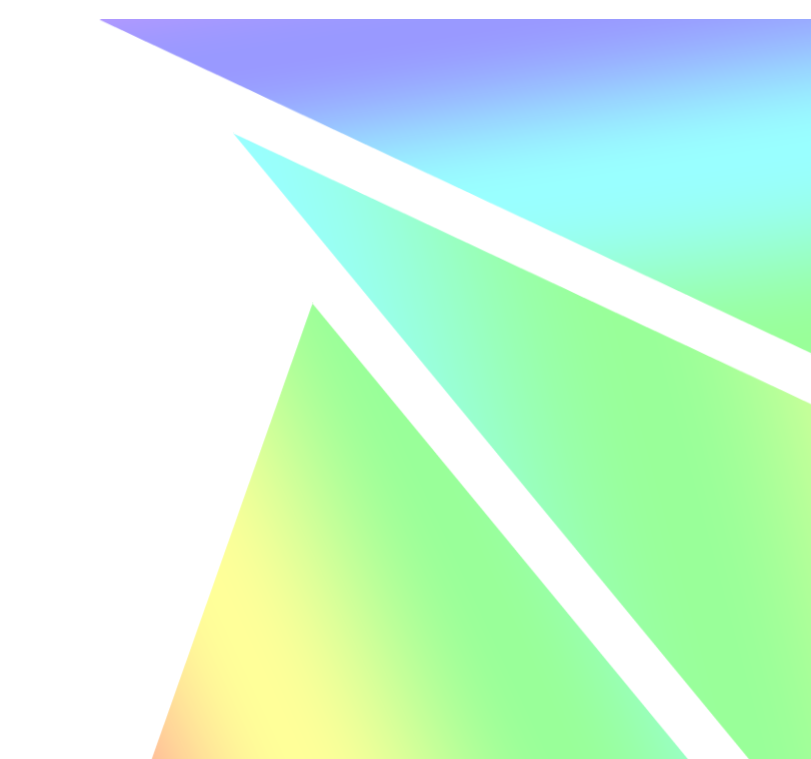
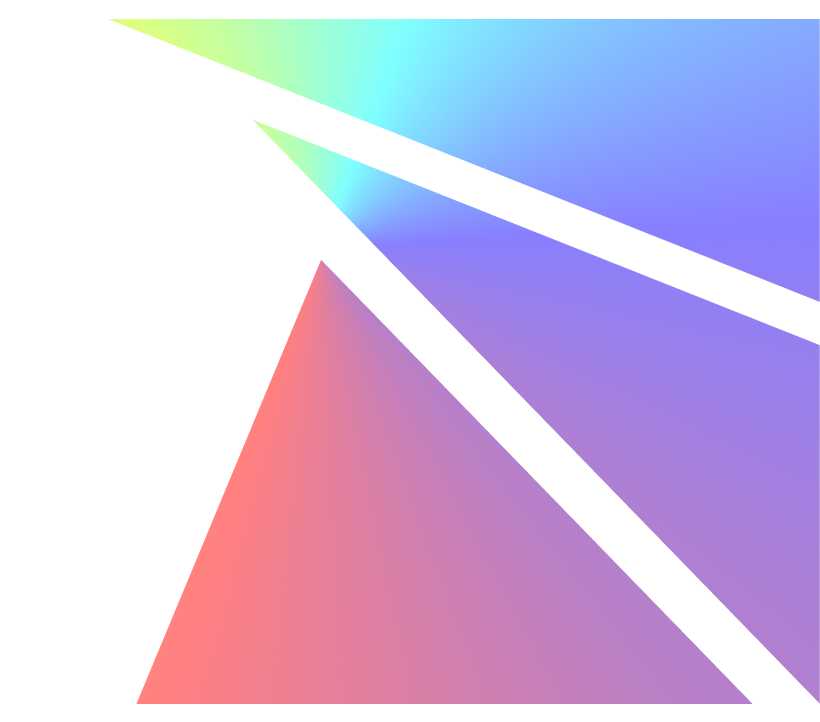
New Warning Page
Added the new "under construction" page, as well as updated images and some minor tweaks

diff --git a/index.html b/index.html
@@ -4,47 +4,21 @@
     <meta charset="UTF-8">
     <meta name="viewport" content="width=device-width, initial-scale=1.0">
     <meta name="author" content="Carson Ford">
-    <meta name="date" content="2025-05-14">
+    <meta name="date" content="2025-05-23">
     <meta name="last revised" content="2025-05-23">
     <meta name="keywords" content="Carson Ford, UI/UX, UI/UX artist, Carson Ford portfolio">
     <link rel="stylesheet" href="css/defaultstyle.css">
-    <link rel="preconnect" href="https://fonts.googleapis.com">
-    <link rel="preconnect" href="https://fonts.gstatic.com" crossorigin>
-    <link href="https://fonts.googleapis.com/css2?family=DM+Sans:ital,opsz,wght@0,9..40,100..1000;1,9..40,100..1000&display=swap" rel="stylesheet">
     <link href="https://fonts.googleapis.com/css2?family=DM+Sans:ital,opsz,wght@0,9..40,100..1000;1,9..40,100..1000&family=Neuton:ital,wght@0,200;0,300;0,400;0,700;0,800;1,400&display=swap" rel="stylesheet">
 
     <title>Carson Ford - Video Game UI Designer and Programmer</title>
     
 </head>
 <body>
-    <nav class="top-bar"> <!-- This is the code for the top menu bar -->
-        <div class="top-bar-logo"><img src="images/cf_logo.png"></div>
-        <div><a class="top-bar-text" href="index.html">Home</a></div>
-        <div><a id="portfolio-button" class="top-bar-text" href="https://carsonford1.artstation.com/">Portfolio</a></div>
-        <div><a class="top-bar-text" href="construction.html">About</a></div>
-        <div><a class="top-bar-text" href="construction.html">Contact</a></div>
-        <div class="top-bar-menu"><img src="images/menu_button.png"></div>
-    </nav>
-
-    <div class="intro-box"> <!-- This is where the introduction code will be -->
-        <div class="intro-text">
-            <div><h1>Carson</h1></div>
-            <div><h1>Ford</h1></div>
-            <div><h2>UI Designer and Programmer</h2></div>
-            <hr style="width: 100%; border-color: rgb(197, 197, 197); color: rgb(197, 197, 197);">
-            <div><p class="intro-description">Welcome to my page! I'm a UI/UX designer and programmer focusing mainly on game design. Here you'll find my portfolio and a bit about me.</p></div>
-            <div><a class="intro-description">Feel free to take a look around!</a></div>
-            <div class="intro-buttons">
-                <div class="intro-contact"><a>Contact me!</a></div>
-                <div><a class="intro-portfolio" href="https://carsonford1.artstation.com/">View Portfolio&#8599;</a></div>
-            </div>
-        </div>
-        <div class="intro-shapes">
-            <img class="hue-shift" src="images/intro_shapes.png" alt="Shapes and Lines">
-        </div>
-    </div>
-    <div class="middle-box">
-        <div style="height: 1000px;"></div>
+    <div style="display: flex; flex-direction: column; justify-content: center; align-items: center; min-height: 99dvh; margin-top: -40px;">                                                                                       
+        <h1 style="font-size: 7em;">Notice!</h1>
+        <img src="images/construction.png" class="hue-shift" style="margin-left: 1%; margin-top: -45px; scale: 95%;">
+        <h2 style="margin-top: 10px; width: 600px; text-align: center;">This site is currently under development.</h2>
+        <a href="home.html" style="font-family: 'DM Sans', sans-serif; text-decoration: none; font-size: 2em; color: rgb(121, 251, 255); font-weight: 200; margin-top: -20px;">Click here to proceed</a>
     </div>
 </body>
 </html>

diff --git a/home.html b/home.html
@@ -1,0 +1,50 @@
+<!DOCTYPE html>
+<html lang="en">
+<head>
+    <meta charset="UTF-8">
+    <meta name="viewport" content="width=device-width, initial-scale=1.0">
+    <meta name="author" content="Carson Ford">
+    <meta name="date" content="2025-05-14">
+    <meta name="last revised" content="2025-05-23">
+    <meta name="keywords" content="Carson Ford, UI/UX, UI/UX artist, Carson Ford portfolio">
+    <link rel="stylesheet" href="css/defaultstyle.css">
+    <link rel="preconnect" href="https://fonts.googleapis.com">
+    <link rel="preconnect" href="https://fonts.gstatic.com" crossorigin>
+    <link href="https://fonts.googleapis.com/css2?family=DM+Sans:ital,opsz,wght@0,9..40,100..1000;1,9..40,100..1000&family=Neuton:ital,wght@0,200;0,300;0,400;0,700;0,800;1,400&display=swap" rel="stylesheet">
+
+    <title>Carson Ford - Video Game UI Designer and Programmer</title>
+    
+</head>
+<body>
+    <nav class="top-bar"> <!-- This is the code for the top menu bar -->
+        <div class="top-bar-logo"><img src="images/cf_logo.png"></div>
+        <div><a class="top-bar-text" href="home.html">Home</a></div>
+        <div><a class="top-bar-text" href="https://carsonford1.artstation.com/" target="_blank">Portfolio</a></div>
+        <div><a class="top-bar-text" href="construction.html">About</a></div>
+        <div><a class="top-bar-text" href="construction.html">Contact</a></div>
+        <div class="top-bar-menu"><img src="images/menu_button.png"></div>
+    </nav>
+
+    <div class="intro-box"> <!-- This is the introduction code -->
+        <div class="intro-text">
+            <div><h1 class="intro-name">Carson</h1></div>
+            <div><h1 class="intro-name">Ford</h1></div>
+            <div><h2 class="intro-specialization">UI Designer and Programmer</h2></div>
+            <hr style="width: 100%; border-color: rgb(197, 197, 197); color: rgb(197, 197, 197);">
+            <div><p class="intro-description">Welcome to my page! I'm a UI/UX designer and programmer focusing mainly on game design. Here you'll find my portfolio and a bit about me.</p></div>
+            <div><a class="intro-description">Feel free to take a look around!</a></div>
+            <div class="intro-buttons">
+                <div class="intro-contact"><a>Contact me!</a></div>
+                <div><a class="intro-portfolio" href="https://carsonford1.artstation.com/" target="_blank">View Portfolio&#8599;</a></div>
+            </div>
+        </div>
+        <div class="intro-shapes">
+            <img class="hue-shift" src="images/intro_shapes.png" alt="Shapes and Lines">
+        </div>
+    </div>
+    <div class="middle-box" style="height: 1000px;">
+        <div><img src="images/game_controller.png" style="margin-top: 30px;"></div>
+        <div><h2>Game Development</h2></div>
+    </div>
+</body>
+</html>

diff --git a/css/defaultstyle.css b/css/defaultstyle.css
@@ -4,11 +4,25 @@ body {
     margin: 8px 0px 0px 0px;
 }
 
+h1 {
+    font-family: 'Neuton', sans-serif;
+    font-weight: 700;
+    font-size: 6em;
+    line-height: 0.9em;
+    color: white;
+}
+
+h2 {
+    font-family: 'Neuton', sans-serif;
+    font-weight: 600;
+    font-size: 3.25em;
+    line-height: 1.1em;
+    letter-spacing: 0.05em;
+    color: white;
+}
+
 @keyframes hue-anim{
     0% {filter:hue-rotate(0deg);}
-    25% {filter:hue-rotate(90deg);}
-    50% {filter:hue-rotate(180deg);}
-    75% {filter:hue-rotate(270deg);}
     100% {filter:hue-rotate(360deg);}
 }
 
@@ -93,30 +107,15 @@ body {
     margin-left: 60px;
 }
 
-h1 {
-    font-family: 'Neuton', sans-serif;
-    font-weight: 700;
-    font-size: 6em;
-    line-height: 0.9em;
-    color: white;
+h1.intro-name {
     margin-top: 0px;
     margin-bottom: 10px;
 }
 
-h2 {
-    font-family: 'Neuton', sans-serif;
-    font-weight: 600;
-    font-size: 3.25em;
-    line-height: 1.1em;
-    letter-spacing: 0.05em;
-    color: white;
+h2.intro-specialization {
     width: 400px;
     margin-top: 10px;
     margin-bottom: 15px;
-}
-
-p {
-    
 }
 
 .intro-description {
@@ -133,7 +132,6 @@ p {
     scale: 95%;
     margin-left: -60px;
     margin-top: -20px;
-    
 }
 
 .intro-buttons {
@@ -188,7 +186,10 @@ p {
 
 .middle-box {
     display: flex;
+    justify-content: center;
+    align-items: center;
+    flex-direction: column;
     background-color: rgb(39, 39, 39);
     margin-top: -23px;
-    border-top: 3px solid white;
+    border-top: 2px solid white;
 }

diff --git a/construction.html b/construction.html
@@ -8,6 +8,7 @@
     <meta name="last revised" content="2025-05-21">
     <link rel="stylesheet" href="css/defaultstyle.css">
     <link rel="stylesheet" href="css/construction.css">
+    <link href="https://fonts.googleapis.com/css2?family=DM+Sans:ital,opsz,wght@0,9..40,100..1000;1,9..40,100..1000&family=Neuton:ital,wght@0,200;0,300;0,400;0,700;0,800;1,400&display=swap" rel="stylesheet">
 
     <title>Carson Ford - Video Game UI Designer and Programmer</title>
     
@@ -15,7 +16,7 @@
 <body>
      <nav class="top-bar"> <!-- This is the code for the top menu bar -->
         <div class="top-bar-logo"><img src="images/cf_logo.png"></div>
-        <div><a class="top-bar-text" href="index.html">Home</a></div>
+        <div><a class="top-bar-text" href="home.html">Home</a></div>
         <div><a class="top-bar-text" href="https://carsonford1.artstation.com/">Portfolio</a></div>
         <div><a class="top-bar-text" href="construction.html">About</a></div>
         <div><a class="top-bar-text" href="construction.html">Contact</a></div>
